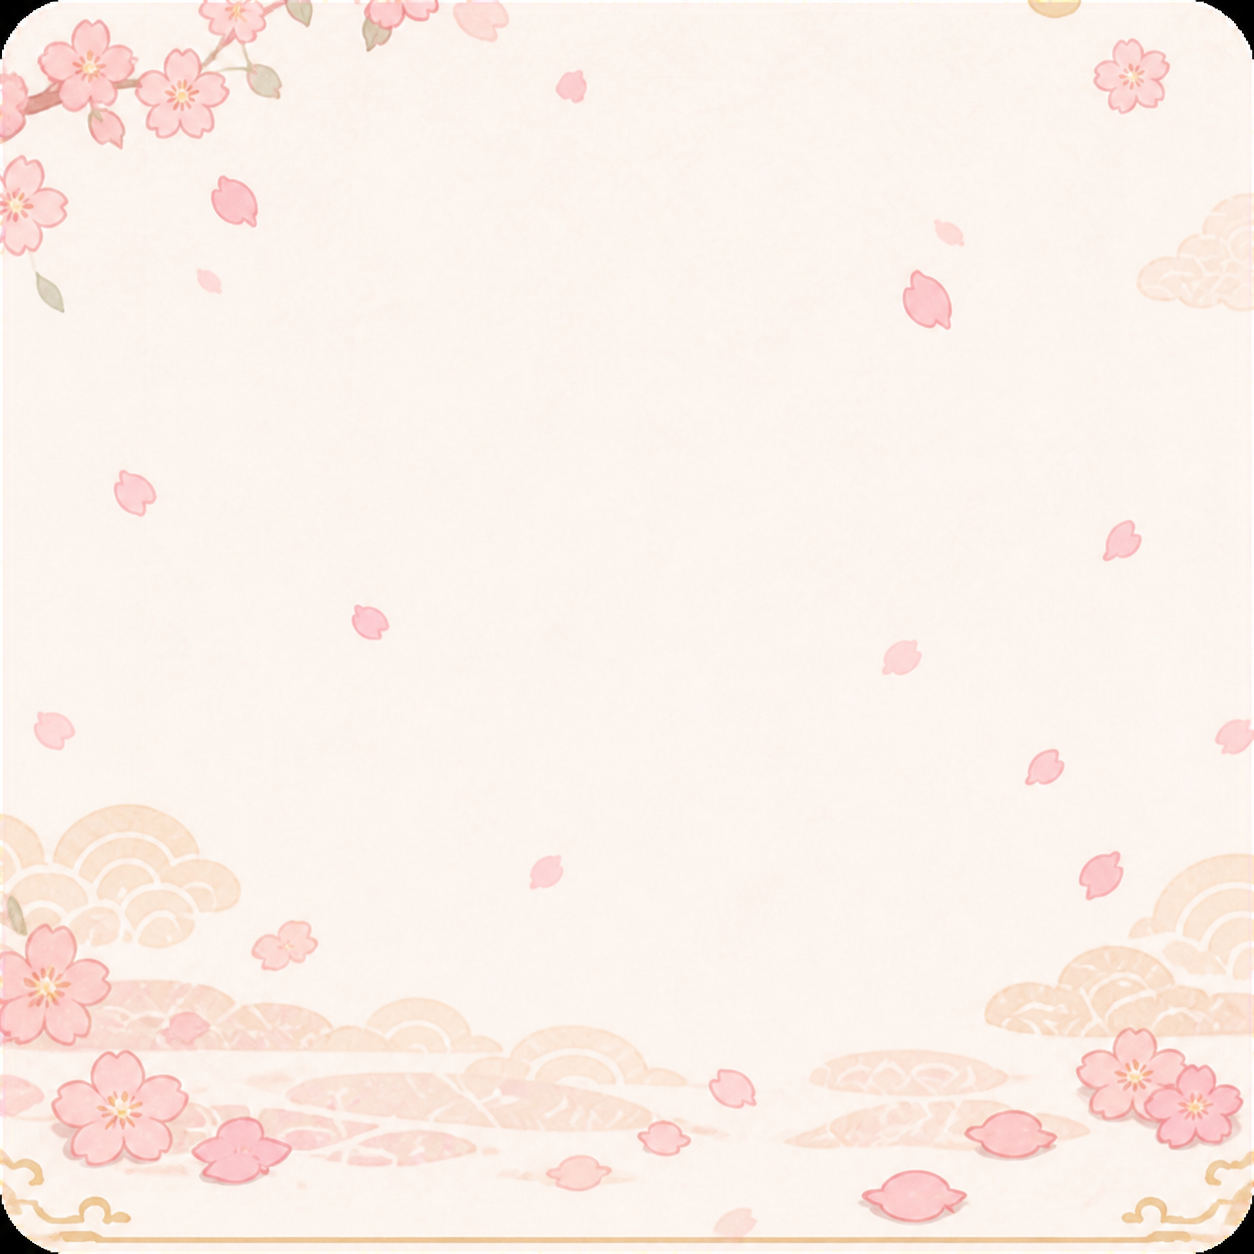
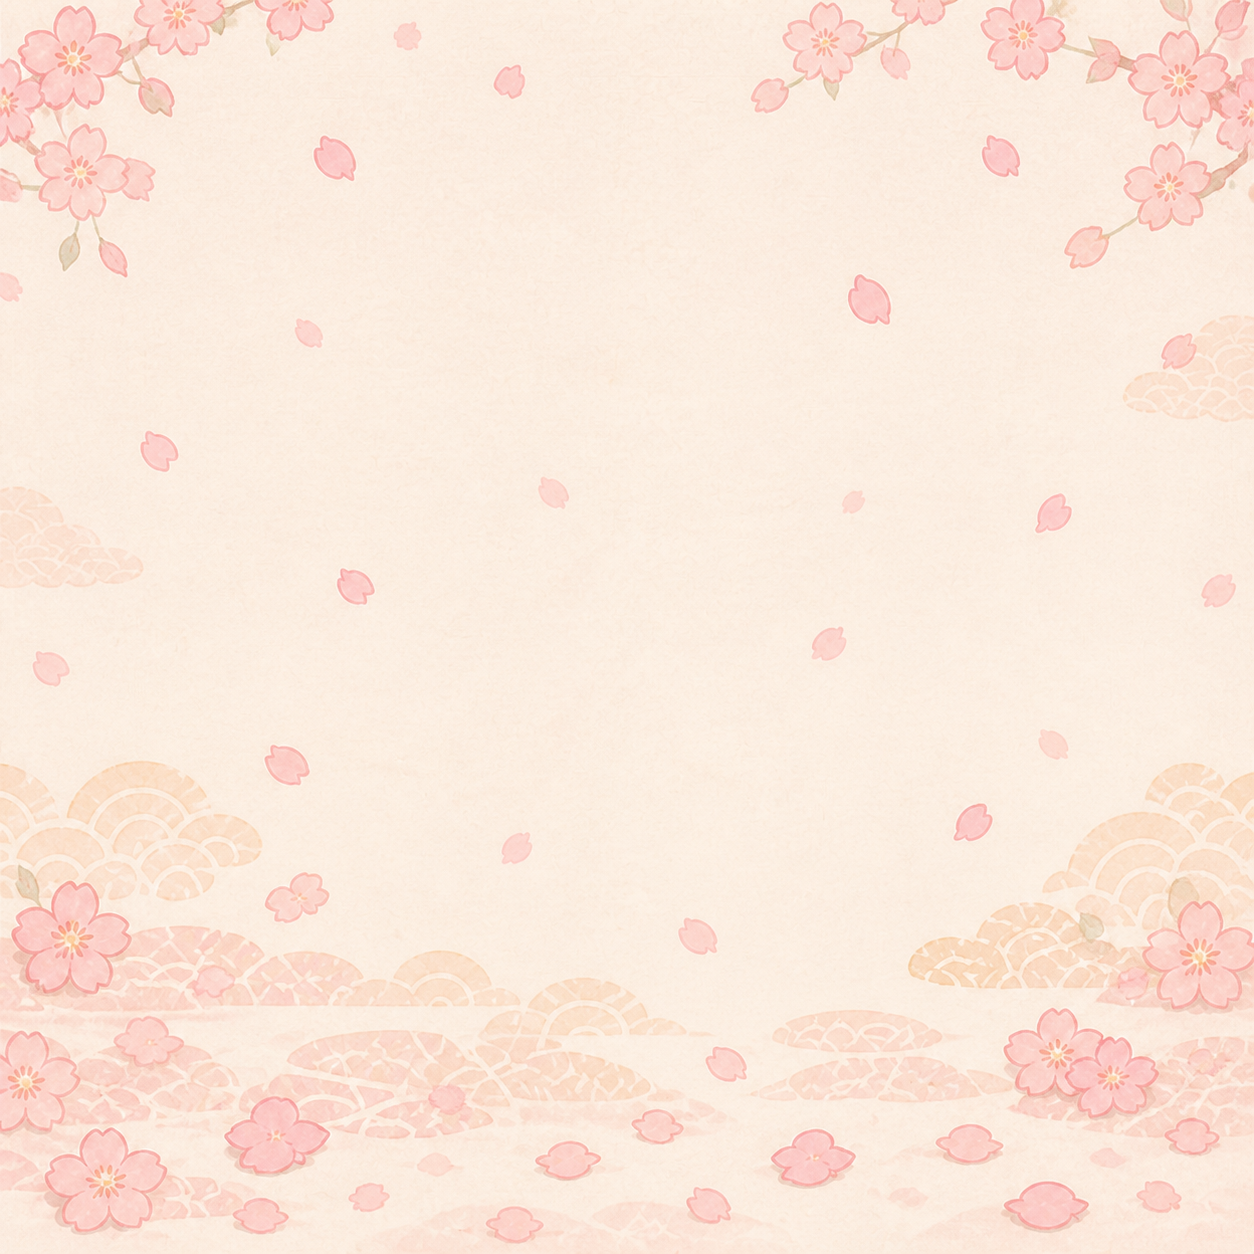
feat：皮肤问题修复

diff --git a/terminal-buddy/src/components/shell/TitleBar.css b/terminal-buddy/src/components/shell/TitleBar.css
@@ -390,19 +390,19 @@
 }
 
 .theme-skin-option-cartoon .theme-skin-preview-bar {
-  background: rgb(255 240 245 / var(--theme-app-opacity, 0));
+  background: rgb(255 253 251 / var(--theme-app-opacity, 0));
   border-bottom: 1px solid #f5bfd0;
 }
 
 .theme-skin-option-cartoon .theme-skin-preview-sidebar {
-  background: rgb(255 246 249 / var(--theme-app-opacity, 0));
+  background: rgb(255 253 251 / var(--theme-app-opacity, 0));
   border-right: 1px solid #f5bfd0;
 }
 
 .theme-skin-option-cartoon .theme-skin-preview-content {
   background:
     repeating-linear-gradient(to bottom, rgba(239, 160, 187, 0.74) 0 2px, transparent 2px 6px),
-    rgb(255 253 248 / var(--theme-app-opacity, 0));
+    rgb(255 253 251 / var(--theme-app-opacity, 0));
 }
 
 .theme-skin-option-starry .theme-skin-preview {
@@ -412,7 +412,7 @@
 }
 
 .theme-skin-option-starry .theme-skin-preview-bar {
-  background: rgb(38 41 112 / var(--theme-app-opacity, 0));
+  background: rgb(28 31 91 / var(--theme-app-opacity, 0));
   border-bottom: 1px solid #665da8;
 }
 
@@ -424,7 +424,7 @@
 .theme-skin-option-starry .theme-skin-preview-content {
   background:
     repeating-linear-gradient(to bottom, rgba(192, 138, 255, 0.78) 0 2px, transparent 2px 6px),
-    rgb(22 24 81 / var(--theme-app-opacity, 0));
+    rgb(28 31 91 / var(--theme-app-opacity, 0));
 }
 
 .theme-skin-option-cyber .theme-skin-preview {
@@ -434,7 +434,7 @@
 }
 
 .theme-skin-option-cyber .theme-skin-preview-bar {
-  background: rgb(11 13 38 / var(--theme-app-opacity, 0));
+  background: rgb(6 8 24 / var(--theme-app-opacity, 0));
   border-bottom: 1px solid #6e2b65;
 }
 
@@ -446,7 +446,7 @@
 .theme-skin-option-cyber .theme-skin-preview-content {
   background:
     repeating-linear-gradient(to bottom, rgba(255, 45, 186, 0.84) 0 2px, transparent 2px 6px),
-    rgb(3 5 16 / var(--theme-app-opacity, 0));
+    rgb(6 8 24 / var(--theme-app-opacity, 0));
   box-shadow: inset 3px 0 #00d9ff;
 }
 
@@ -462,14 +462,14 @@
 }
 
 .theme-skin-option-sakura .theme-skin-preview-sidebar {
-  background: rgb(249 223 211 / var(--theme-app-opacity, 0));
+  background: rgb(255 253 248 / var(--theme-app-opacity, 0));
   border-right: 1px solid #d9af92;
 }
 
 .theme-skin-option-sakura .theme-skin-preview-content {
   background:
     repeating-linear-gradient(to bottom, rgba(228, 85, 104, 0.76) 0 2px, transparent 2px 6px),
-    rgb(255 251 241 / var(--theme-app-opacity, 0));
+    rgb(255 253 248 / var(--theme-app-opacity, 0));
 }
 
 .theme-skin-opacity-control {

diff --git a/terminal-buddy/src/components/terminal/TerminalInstance.tsx b/terminal-buddy/src/components/terminal/TerminalInstance.tsx
@@ -42,6 +42,15 @@ interface TerminalInstanceProps {
   splitMode?: 'off' | '2x1' | '2x2';
 }
 
+// 半透明皮肤由 terminal-instance 外层统一绘制一次背景。xterm 画布保持透明，
+// 避免相同 rgba 在外层与画布上重复合成（例如 45% 两层叠加后视觉接近 70%）。
+const toXtermCanvasTheme = (colors: TerminalColors) => {
+  const { lightOptimized: _lightOptimized, ...theme } = colors;
+  return colors.background.startsWith('rgba(')
+    ? { ...theme, background: 'rgba(0, 0, 0, 0)' }
+    : theme;
+};
+
 
 export const TerminalInstance: FC<TerminalInstanceProps> = ({
   terminalId,
@@ -170,8 +179,7 @@ export const TerminalInstance: FC<TerminalInstanceProps> = ({
     const bg = currentTheme?.background || '#1e1e1e';
     const fg = currentTheme?.foreground || '#cccccc';
     const lightOptimized = !!currentTheme?.lightOptimized;
-    const { lightOptimized: _lightOptimized, ...xtermTheme } = currentTheme || { background: bg, foreground: fg };
-    term.options.theme = xtermTheme;
+    term.options.theme = toXtermCanvasTheme(currentTheme || { background: bg, foreground: fg });
     term.options.minimumContrastRatio = lightOptimized ? 4.5 : 1;
   }, []);
 
@@ -361,10 +369,12 @@ export const TerminalInstance: FC<TerminalInstanceProps> = ({
       void bootLog(`initTerminal[${terminalId}]: terminal traits took ${(performance.now() - tBuildNum).toFixed(0)}ms, build=${buildNumber}, mode=${terminalLoadingMode}`);
 
       const tNewTerm = performance.now();
-      const { lightOptimized: initialLightOptimized, ...initialTheme } = colorTheme || {
+      const initialColors = colorTheme || {
         background: '#1e1e1e',
         foreground: '#cccccc',
       };
+      const initialLightOptimized = !!initialColors.lightOptimized;
+      const initialTheme = toXtermCanvasTheme(initialColors);
       const terminal = new Terminal({
         cursorBlink: false,
         cursorStyle: 'block',

diff --git a/terminal-buddy/src/styles/cartoonAnime1.css b/terminal-buddy/src/styles/cartoonAnime1.css
@@ -175,6 +175,7 @@
   background: transparent;
 }
 
+[data-skin] .activity-bar,
 [data-skin] .config-nav {
   background: var(--bg-secondary);
 }
@@ -185,20 +186,16 @@
 
 [data-skin] .file-nav {
   --file-nav-surface: var(--bg-secondary);
-  --file-nav-toolbar: var(--skin-toolbar-surface);
+  --file-nav-toolbar: transparent;
   --file-nav-control: var(--skin-control-surface);
 }
 
 [data-skin] .file-nav > .panel-titlebar,
 [data-skin] .file-nav-filter,
-[data-skin] .git-nav-bar,
 [data-skin] .tab-nav > .panel-titlebar {
-  -webkit-backdrop-filter: blur(var(--skin-surface-blur, 0)) saturate(1.08);
-  backdrop-filter: blur(var(--skin-surface-blur, 0)) saturate(1.08);
-}
-
-[data-skin] .tab-nav > .panel-titlebar {
-  background: var(--skin-toolbar-surface);
+  background: transparent;
+  -webkit-backdrop-filter: none;
+  backdrop-filter: none;
 }
 
 [data-skin] .tab-nav-search,
@@ -206,10 +203,14 @@
   background: var(--skin-control-surface);
 }
 
+[data-skin] .file-nav-content {
+  background: transparent;
+}
+
 [data-skin] .terminal-tab-bar {
   /* A backdrop filter here turns this scrolling element into the containing
      block for its fixed context menu, causing the menu to be clipped. */
-  background: var(--skin-toolbar-surface);
+  background: var(--bg-secondary);
   border-bottom-color: var(--skin-toolbar-border);
 }
 
@@ -226,7 +227,7 @@
 [data-skin] .terminal-empty,
 [data-skin] .terminal-starting,
 [data-skin] .lazy-panel-loading {
-  background: var(--bg-primary);
+  background: var(--bg-secondary);
 }
 
 [data-skin] .cartoon-anime1-overlay {

diff --git a/terminal-buddy/src/utils/settings.ts b/terminal-buddy/src/utils/settings.ts
@@ -205,6 +205,7 @@ export const initAppSettings = async (): Promise<void> => {
         parsed.appOpacityBySkin = parsed.terminalBackgroundOpacityBySkin;
       }
       delete parsed.terminalBackgroundOpacityBySkin;
+      parsed.appOpacityBySkin = getAppOpacities({ ...DEFAULT_SETTINGS, ...parsed } as AppSettings);
       // 兼容旧版总开关：升级后保留用户此前关闭通知的选择。
       if (parsed.claudeCodeNotifications === false && parsed.claudeDecisionNotifications === undefined) {
         parsed.claudeDecisionNotifications = false;
@@ -218,9 +219,13 @@ export const initAppSettings = async (): Promise<void> => {
 };
 
 export const saveAppSettings = (settings: AppSettings) => {
-  _cachedSettings = settings;
-  applyAppOpacity(settings);
-  writeClientData('settings', JSON.stringify(settings)).catch(() => {});
+  const normalizedSettings: AppSettings = {
+    ...settings,
+    appOpacityBySkin: getAppOpacities(settings),
+  };
+  _cachedSettings = normalizedSettings;
+  applyAppOpacity(normalizedSettings);
+  writeClientData('settings', JSON.stringify(normalizedSettings)).catch(() => {});
   window.dispatchEvent(new CustomEvent('app-settings-changed'));
 };
 

diff --git a/terminal-buddy/src/utils/terminalTheme.ts b/terminal-buddy/src/utils/terminalTheme.ts
@@ -333,10 +333,12 @@ const SAKURA_COLORS: TerminalColors = {
 };
 
 const DECORATIVE_THEME_BACKGROUND_RGB: Record<DecorativeThemeSkin, readonly [number, number, number]> = {
-  cartoon: [255, 253, 248],
-  starry: [22, 24, 81],
-  cyber: [3, 5, 16],
-  sakura: [255, 251, 241],
+  // 与各皮肤的 --bg-secondary 完全一致，确保终端与左右主分栏在同一
+  // 不透明度下呈现相同的合成深浅，而不是看起来像用了不同档位。
+  cartoon: [255, 253, 251],
+  starry: [28, 31, 91],
+  cyber: [6, 8, 24],
+  sakura: [255, 253, 248],
 };
 
 const appOpacityThemeCache = new WeakMap<TerminalColors, Map<string, TerminalColors>>();

diff --git a/terminal-buddy/src/components/file-explorer/FileNav.css b/terminal-buddy/src/components/file-explorer/FileNav.css
@@ -5,7 +5,7 @@
 	display: flex;
 	flex-direction: column;
 	background: var(--file-nav-surface);
-	border-right: 1px solid var(--border);
+	border-right: 1px solid var(--border-subtle);
 	position: relative;
 	min-width: 120px;
 	max-width: 500px;
